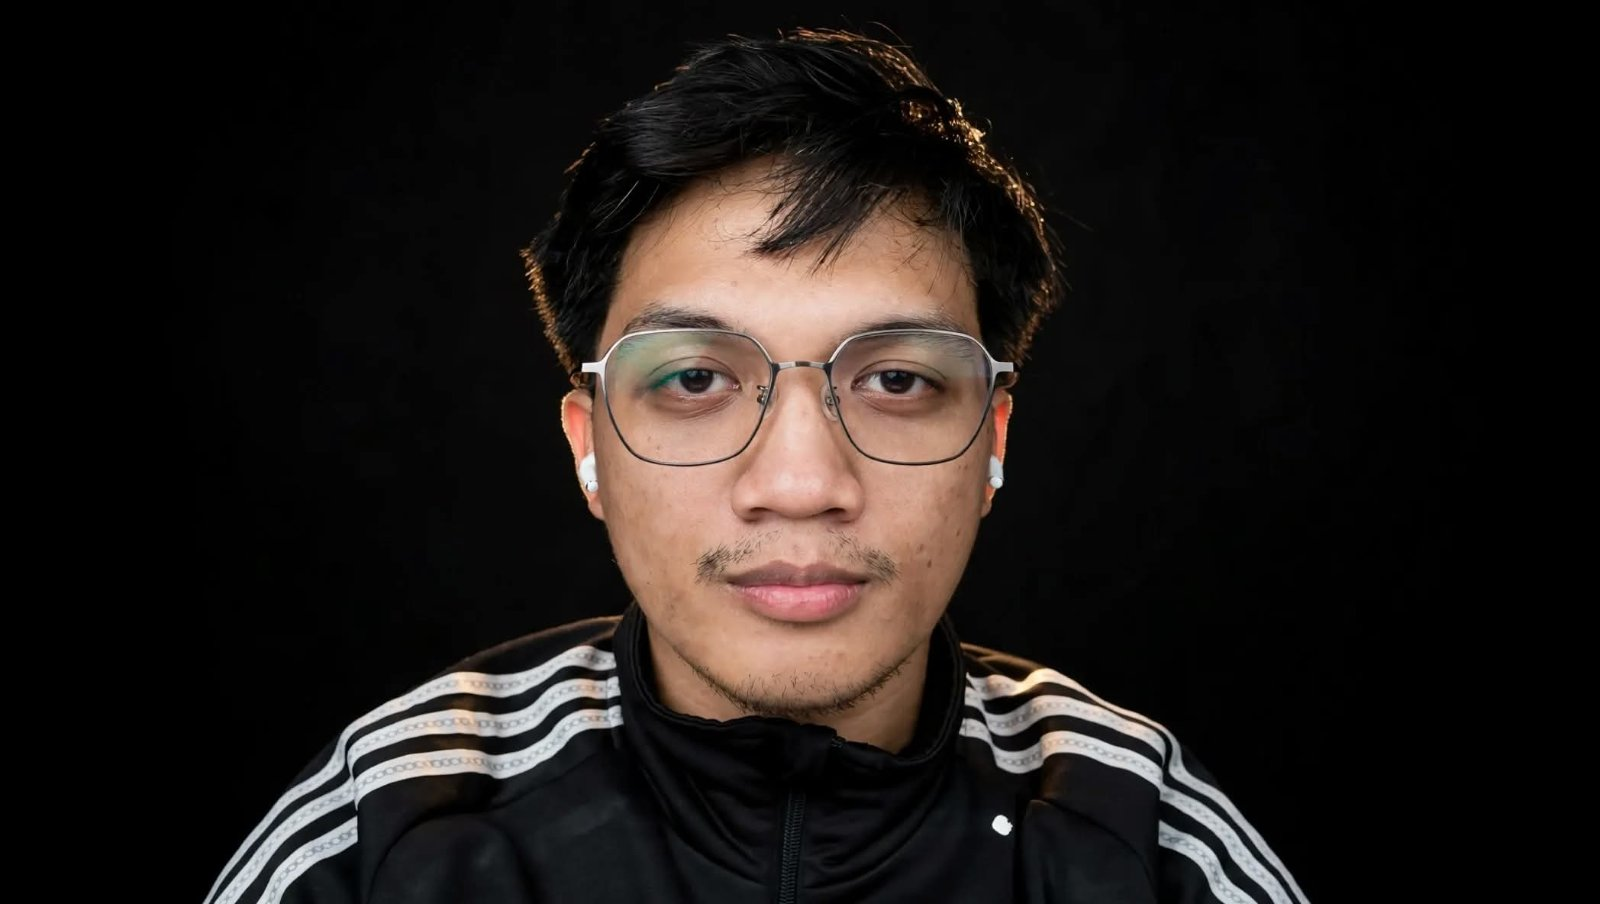
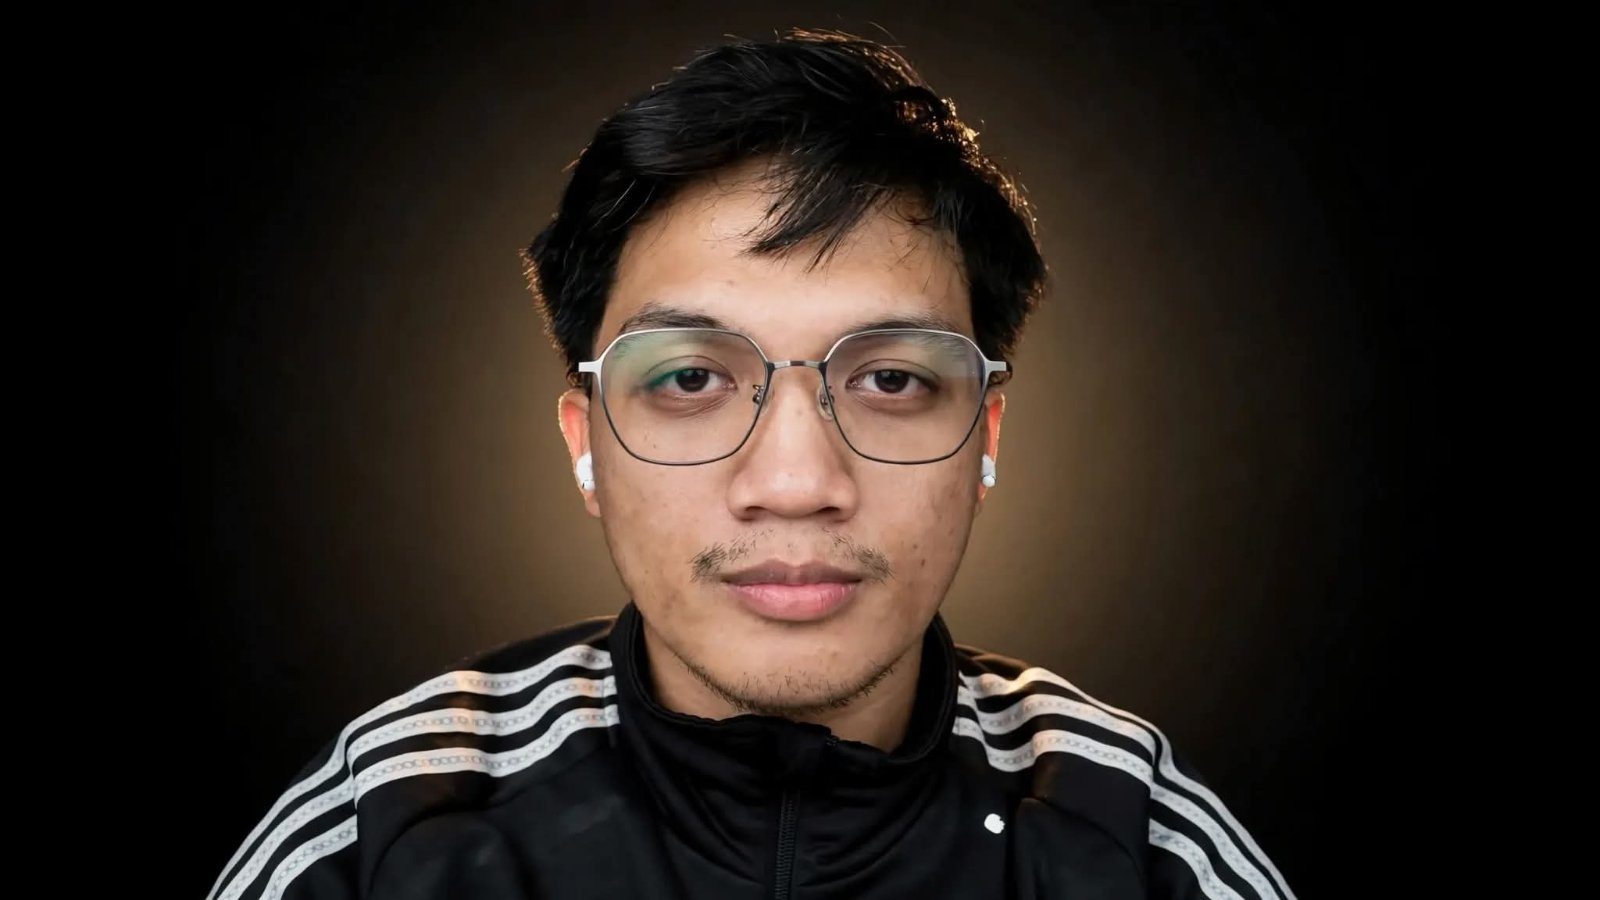
Update About cards, location, and header spacing for Pages.
Add a landscape flip card for small screens, switch the based-in location to Makati, and tighten the header to the menu row height.

Changed region(s): [[0.125, 0.0, 0.8438, 1.0], [0.4375, 0.56, 0.5625, 0.7156], [0.5938, 0.9022, 0.6562, 0.9333]]

diff --git a/index.html b/index.html
@@ -121,22 +121,58 @@
         <!-- Profile & Bio Row -->
         <div class="about-intro-grid">
           <div class="about-pic-wrapper">
-            <div class="about-flip-card" data-about-flip-card>
+            <!-- Desktop: portrait flip card -->
+            <div
+              class="about-flip-card about-flip-card--portrait"
+              data-about-flip-card
+              data-fc-width="300"
+              data-fc-height="400"
+            >
               <div class="about-flip-card__scene">
                 <div class="about-flip-card__inner">
                   <div class="about-flip-card__face about-flip-card__face--front">
-                    <picture>
-                      <source media="(max-width: 950px)" srcset="./assets/second-profile-pic-full.jpg" />
-                      <img src="./assets/second-profile-pic-full-portrait.jpg" alt="Kristoffer Cabigon" class="about-pic" />
-                    </picture>
+                    <img
+                      src="./assets/second-profile-pic-full-portrait.jpg"
+                      alt="Kristoffer Cabigon"
+                      class="about-pic"
+                    />
                   </div>
                   <div class="about-flip-card__face about-flip-card__face--back">
                     <div class="about-flip-card__back">
                       <p class="about-flip-card__eyebrow">Software Developer</p>
                       <h3>Kristoffer Cabigon</h3>
                       <p>Enterprise web · legacy modernization · application support</p>
-                      <p>Caloocan, Philippines</p>
+                      <p>Makati, Philippines</p>
                       <p class="about-flip-card__hint">Click or drag to flip</p>
+                    </div>
+                  </div>
+                </div>
+              </div>
+              <div class="about-flip-card__glare" aria-hidden="true"></div>
+            </div>
+
+            <!-- Small screens (stacked layout): landscape flip card -->
+            <div
+              class="about-flip-card about-flip-card--landscape"
+              data-about-flip-card
+              data-fc-layout="landscape"
+            >
+              <div class="about-flip-card__scene">
+                <div class="about-flip-card__inner">
+                  <div class="about-flip-card__face about-flip-card__face--front">
+                    <img
+                      src="./assets/second-profile-pic-full.jpg"
+                      alt="Kristoffer Cabigon"
+                      class="about-pic"
+                    />
+                  </div>
+                  <div class="about-flip-card__face about-flip-card__face--back">
+                    <div class="about-flip-card__back">
+                      <p class="about-flip-card__eyebrow">Software Developer</p>
+                      <h3>Kristoffer Cabigon</h3>
+                      <p>Enterprise web · legacy modernization · application support</p>
+                      <p>Makati, Philippines</p>
+                      <p class="about-flip-card__hint">Tap to flip</p>
                     </div>
                   </div>
                 </div>
@@ -147,14 +183,14 @@
           <div class="about-bio-content">
             <h2 class="about-bio-heading">Transforming complex business operations into streamlined digital systems.</h2>
             <p class="about-bio-text">
-              Hello! I’m <strong>Kristoffer Cabigon</strong>, a software developer based in Caloocan, Philippines. I specialize in enterprise web development, legacy system modernization, and application support.
+              Hello! I’m <strong>Kristoffer Cabigon</strong>, a software developer based in Makati, Philippines. I specialize in enterprise web development, legacy system modernization, and application support.
             </p>
             <p class="about-bio-text">
               My background bridges hands-on database architecture, API integration, and user-focused frontend engineering. From modernizing mission-critical legacy desktop tools to architecting dedicated ticketing workflows, I focus on building dependable software that solves operational bottlenecks and scales cleanly.
             </p>
             <div class="about-quick-tags">
               <span class="about-quick-pill"><span class="about-status-dot"></span> Open to Opportunities</span>
-              <span class="about-quick-pill">📍 Caloocan, Philippines</span>
+              <span class="about-quick-pill">📍 Makati, Philippines</span>
               <span class="about-quick-pill">🎓 BS in Information Systems</span>
             </div>
           </div>

diff --git a/menu.css b/menu.css
@@ -8,16 +8,28 @@
   --pm-ink: #131313;
   --pm-unit: clamp(18px,1.25vw,24px);
   --pm-edge: clamp(22px,2.4vw,48px);
+  --pm-header-pad-y: clamp(12px, 1.4vw, 18px);
+  --pm-header-pad-x: var(--pm-edge);
+  /* Menu toggle is the tallest header control (label + icon). */
+  --pm-toggle-size: clamp(24px, 2.1vw, 32px);
+  --pm-header-height: calc(
+    max(var(--pm-header-pad-y), env(safe-area-inset-top, 0px))
+    + var(--pm-header-pad-y)
+    + (var(--pm-toggle-size) * 1.9)
+  );
   font: 400 var(--pm-unit)/1.2 'Inter',sans-serif;
   letter-spacing: -.06em;
   color: var(--pm-ink);
 }
 .pm-shell *, .pm-shell *::before, .pm-shell *::after { box-sizing: border-box; }
-.pm-header-space { height: 17vh; }
+.pm-header-space { height: var(--pm-header-height); }
 .pm-header {
   position: fixed; inset: 0 0 auto; z-index: 3100;
   display: flex; align-items: center; justify-content: space-between;
-  padding: var(--pm-edge); pointer-events: none;
+  padding: max(var(--pm-header-pad-y), env(safe-area-inset-top, 0px)) var(--pm-header-pad-x) var(--pm-header-pad-y);
+  min-height: var(--pm-header-height);
+  box-sizing: border-box;
+  pointer-events: none;
   /* Keep navigation visible over the page's light and transparent backgrounds. */
   mix-blend-mode: normal; color: var(--pm-ink);
 }
@@ -28,7 +40,7 @@
 .pm-toggle {
   pointer-events: auto; display: flex; align-items: center; gap: .625em;
   padding: .4em; margin: -.4em; border: 0; background: none; color: inherit;
-  font: inherit; font-size: clamp(24px,2.1vw,32px); cursor: pointer;
+  font: inherit; font-size: var(--pm-toggle-size); cursor: pointer;
 }
 .pm-layer[hidden], .pm-toggle[hidden] { display: none; }
 .pm-toggle-label { display: grid; overflow: hidden; font-size: 1em; font-weight: 500; line-height: 1.1; }
@@ -91,7 +103,13 @@ html.pm-menu-open, html.pm-menu-open body { overflow: hidden !important; }
 .pm-no-animation:not([data-menu-state="closed"]) .pm-toggle-menu { transform: translateY(-100%); }
 .pm-no-animation:not([data-menu-state="closed"]) .pm-toggle-close { transform: translateY(0); }
 @media (max-width: 767px) {
-  .pm-header { padding: max(20px,env(safe-area-inset-top)) 20px 20px; }
+  .pm-shell {
+    --pm-header-pad-y: max(12px, env(safe-area-inset-top, 0px));
+    --pm-header-pad-x: 20px;
+  }
+  .pm-header {
+    padding: var(--pm-header-pad-y) var(--pm-header-pad-x) 12px;
+  }
   .pm-panel { width: 100%; }
   .pm-panel-content { padding: 100px 0 max(30px,env(safe-area-inset-bottom)); }
   .pm-shell .pm-navigation { margin-bottom: 2rem; }

diff --git a/about-flip-card.js b/about-flip-card.js
@@ -37,13 +37,14 @@
     root.dataset.flipReady = '1';
 
     const opts = { ...DEFAULTS };
+    if (root.dataset.fcWidth) opts.width = Number(root.dataset.fcWidth) || opts.width;
+    if (root.dataset.fcHeight) opts.height = Number(root.dataset.fcHeight) || opts.height;
+
     const scene = root.querySelector('.about-flip-card__scene');
     const inner = root.querySelector('.about-flip-card__inner');
     const glare = root.querySelector('.about-flip-card__glare');
     if (!scene || !inner) return;
 
-    root.style.setProperty('--fc-width', `${opts.width}px`);
-    root.style.setProperty('--fc-height', `${opts.height}px`);
     root.style.setProperty('--fc-radius', `${opts.radius}px`);
     root.style.setProperty('--fc-bg', opts.background);
     root.style.setProperty('--fc-color', opts.color);
@@ -55,6 +56,28 @@
 
     const reduced = window.matchMedia('(prefers-reduced-motion: reduce)');
     const coarse = window.matchMedia('(pointer: coarse)');
+    const isLandscapeCard = root.dataset.fcLayout === 'landscape' || root.classList.contains('about-flip-card--landscape');
+
+    function syncCardSize() {
+      if (!isLandscapeCard) {
+        root.style.width = '';
+        root.style.height = '';
+        return;
+      }
+      if (!window.matchMedia('(max-width: 950px)').matches) {
+        root.style.width = '';
+        root.style.height = '';
+        return;
+      }
+      const width = Math.min(560, Math.round(window.innerWidth * 0.92));
+      const height = Math.round((width * 9) / 16); // 1920×1080
+      root.style.width = `${width}px`;
+      root.style.height = `${height}px`;
+    }
+
+    syncCardSize();
+    window.addEventListener('resize', syncCardSize, { passive: true });
+    window.matchMedia('(max-width: 950px)').addEventListener('change', syncCardSize);
 
     let flipped = false;
     let dragging = false;

diff --git a/about-flip-card.css b/about-flip-card.css
@@ -96,14 +96,10 @@
   transform: rotateX(180deg);
 }
 
-.about-flip-card__face picture,
 .about-flip-card__face .about-pic {
   width: 100%;
   height: 100%;
   display: block;
-}
-
-.about-flip-card__face .about-pic {
   object-fit: cover;
   object-position: center center;
   pointer-events: none;
@@ -174,16 +170,46 @@
   opacity: 1;
 }
 
+/* Desktop: portrait card only */
+.about-flip-card--landscape {
+  display: none;
+}
+
+.about-flip-card--portrait {
+  display: block;
+}
+
+/* Small / stacked About layout: landscape card only */
 @media screen and (max-width: 950px) {
   .about-pic-wrapper {
+    width: 100%;
     margin: 0 auto;
+    display: flex;
+    justify-content: center;
   }
 
-  .about-flip-card {
-    --fc-width: min(300px, 78vw);
-    --fc-height: min(400px, calc(min(300px, 78vw) * 4 / 3));
-    width: var(--fc-width);
-    height: var(--fc-height);
+  .about-flip-card--portrait {
+    display: none !important;
+  }
+
+  .about-flip-card--landscape {
+    display: block;
+    width: min(560px, 92vw);
+    height: calc(min(560px, 92vw) * 9 / 16);
+    aspect-ratio: 16 / 9;
+    max-width: 100%;
+  }
+
+  .about-flip-card--landscape .about-flip-card__back {
+    padding: 1.15rem 1.25rem;
+  }
+
+  .about-flip-card--landscape .about-flip-card__back h3 {
+    font-size: 1.15rem;
+  }
+
+  .about-flip-card--landscape .about-flip-card__back p {
+    font-size: 0.85rem;
   }
 }
 

diff --git a/menu.js b/menu.js
@@ -8,6 +8,24 @@
   if (!trigger || !layer) return;
   // Show immediately so a later animation setup error can't leave the control missing.
   trigger.hidden = false;
+
+  // Keep the page offset equal to the real header height (brand / menu row).
+  const header = shell.querySelector('.pm-header');
+  const headerSpace = document.querySelector('.pm-header-space');
+  function syncHeaderSpace() {
+    if (!header) return;
+    const height = Math.ceil(header.getBoundingClientRect().height);
+    if (height > 0) {
+      shell.style.setProperty('--pm-header-height', `${height}px`);
+      if (headerSpace) headerSpace.style.height = `${height}px`;
+    }
+  }
+  syncHeaderSpace();
+  window.addEventListener('resize', syncHeaderSpace, { passive: true });
+  if (typeof ResizeObserver !== 'undefined' && header) {
+    new ResizeObserver(syncHeaderSpace).observe(header);
+  }
+
   const links = [...shell.querySelectorAll('.pm-link')];
   const motion = matchMedia('(prefers-reduced-motion: reduce)');
   const duration = 1250;

diff --git a/side-hud.js b/side-hud.js
@@ -47,8 +47,8 @@
     w = window.innerWidth;
     h = window.innerHeight;
     gutter = Math.max(88, Math.min(170, w * 0.1));
-    // Keep clear of Kris.Dev / Menu header controls
-    topSafe = Math.max(88, Math.min(120, h * 0.12));
+    /* Keep clear of Kris.Dev / Menu header controls */
+    topSafe = Math.max(64, Math.min(100, h * 0.1));
     bottomSafe = 28;
     canvas.width = Math.round(w * dpr);
     canvas.height = Math.round(h * dpr);
